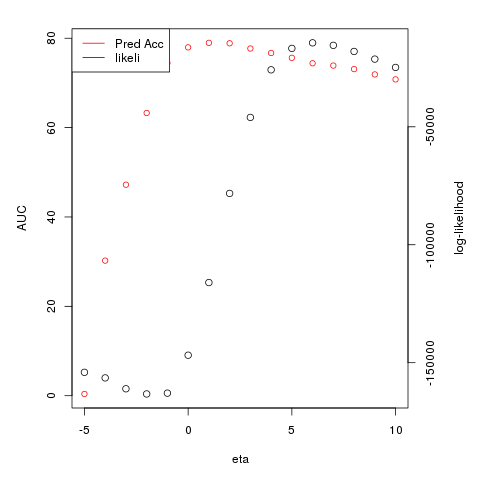
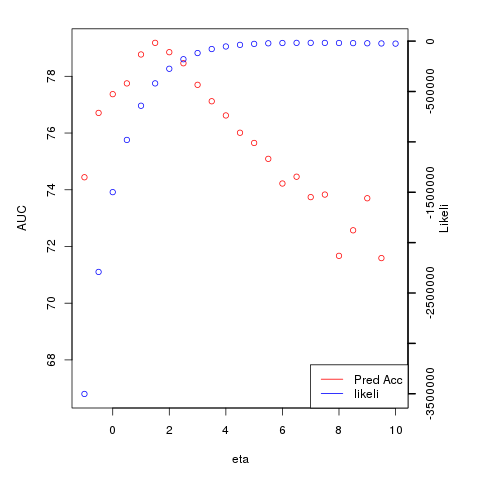
typo in AUC-log cde

diff --git a/non-estimated/README.md b/non-estimated/README.md
@@ -331,6 +331,8 @@ dev.off()
 
 
 # AUC vs. log-likelihood plot for GMPD EB model
+The parameters estimates at highest predictive accuracy does not match the one at highest pseudo log-likelihood. This is an expected behaviour since the pseudo metohd is used. Examples with original and depth =1 are given below. 
+
 
 ```r
 ### GMPD
@@ -343,6 +345,7 @@ if(! all(sapply(rownames(com), function(r) r %in% tree$tip.label))) {
 		print('Warning! Not all hosts in com exist in tree. Hosts not found in tree will be removed.')
 		com <- com[rownames(com)%in%tree$tip.label,]
 }
+
 source('library.R')
 source('gen.R')
 dd = cophenetic(rescale(tree, 'EB', 0))
@@ -350,8 +353,7 @@ aux <- sapply(rownames(dd), function(r) which(r==rownames(com)))
 com = com[aux,]
 Z= unname(com)
 Z = 1*(Z>0)
-
-grid=seq(-1, 1, 0.1)
+grid=seq(-0.04, 0.02, 0.005)
 aux =sapply(grid, function(eta){
     print(eta)
     ##  phy_dist = cophenetic(eb.phylo(tree, tree.ht, eta))
@@ -360,9 +362,10 @@ aux =sapply(grid, function(eta){
     diag(phy_dist)<-0
     pdist = phy_dist %*% Z
     P = 1-exp(-pdist)
-    roc = rocCurves(Z=Z, Z_cross= Z, P=P, plot=FALSE, bins=600, all=TRUE)
+    roc = rocCurves(Z=Z, Z_cross= Z, P=P, plot=FALSE, bins=400, all=TRUE)
     tb  = ana.table(Z, Z, roc=roc, plot=FALSE)
-    U <- rExp(pdist)
+    U <- rExp.mean(pdist)
+    U[Z==0]<-1
     likeli = sum((log(pdist))*Z)- sum(U*(pdist))
     cbind(eta=eta, tb=tb, likeli = likeli)
 })
@@ -371,25 +374,40 @@ aux = data.frame(aux)
 
 png('AUC-log-liekihood-originalTree.png')
 par(mar = c(5,5,2,5))
-with(aux, plot(eta, tb.auc, col='red', ylab = 'AUC', xlab = 'eta'))
-par(new = TRUE)
-with(aux, plot(eta, likeli, axes=FALSE, xlab=NA, ylab=NA, cex=1.2))
-axis(side = 4)
-mtext(side = 4, line = 3, 'log-likelihood')
-legend('topleft', legend = c('Pred Acc', 'likeli'), col=c('red', 'blue'), lty=c(1,1))
+plot(unlist(aux$eta), unlist(aux$tb.auc),  xlab="eta",ylab="AUC", col='red')
+par(new=T)
+plot(unlist(aux$eta), unlist(aux$likeli), axes=F, xlab="",ylab="", col='blue')
+axis(4, ylim=c(0,max(unlist(aux$likeli))),lwd=2)
+mtext(4,text="Likeli", line=2)
+legend('bottomright', legend = c('Pred Acc', 'likeli'), col=c('red', 'blue'), lty=c(1,1))
 dev.off()
+
+aux[which.max(aux$likeli),]
+aux[which.max(aux$tb.auc),]
+
+> aux[which.max(aux$likeli),]
+    eta tb.auc  tb.thresh tb.tot.inter tb.hold.out tb.pred tb.pred.all
+11 0.01   79.6 0.02005013         3966           0     NaN   0.6984367
+      likeli
+11 -16413.98
+> aux[which.max(aux$tb.auc),]
+     eta tb.auc tb.thresh tb.tot.inter tb.hold.out tb.pred tb.pred.all
+4 -0.025  84.09  0.716792         3966           0     NaN   0.7849218
+     likeli
+4 -234301.4
+> 
 
 ```
 
 ![comGMPD file](img/AUC-log-liekihood-originalTree.png)
 
 
-
 ## Depth 1
 
 ```r
-tree= rescale(tree, 'depth', 1)
-grid=seq(-5, 10, 1)
+tree=rescale(tree, 'depth',1)
+
+grid=seq(-1, 10, 0.5)
 aux =sapply(grid, function(eta){
     print(eta)
     ##  phy_dist = cophenetic(eb.phylo(tree, tree.ht, eta))
@@ -398,9 +416,10 @@ aux =sapply(grid, function(eta){
     diag(phy_dist)<-0
     pdist = phy_dist %*% Z
     P = 1-exp(-pdist)
-    roc = rocCurves(Z=Z, Z_cross= Z, P=P, plot=FALSE, bins=600, all=TRUE)
+    roc = rocCurves(Z=Z, Z_cross= Z, P=P, plot=FALSE, bins=400, all=TRUE)
     tb  = ana.table(Z, Z, roc=roc, plot=FALSE)
-    U <- rExp(pdist)
+    U <- rExp.mean(pdist)
+    U[Z==0]<-1
     likeli = sum((log(pdist))*Z)- sum(U*(pdist))
     cbind(eta=eta, tb=tb, likeli = likeli)
 })
@@ -409,13 +428,21 @@ aux = data.frame(aux)
 
 png('AUC-log-liekihood-originalTree-depth-1.png')
 par(mar = c(5,5,2,5))
-with(aux, plot(eta, tb.auc, col='red', ylab = 'AUC', xlab = 'eta'))
-par(new = TRUE)
-with(aux, plot(eta, likeli, axes=FALSE, xlab=NA, ylab=NA, cex=1.2))
-axis(side = 4)
-mtext(side = 4, line = 3, 'log-likelihood')
-legend('topleft', legend = c('Pred Acc', 'likeli'), col=c('red', 'blue'), lty=c(1,1))
+plot(unlist(aux$eta), unlist(aux$tb.auc),  xlab="eta",ylab="AUC", col='red')
+par(new=T)
+plot(unlist(aux$eta), unlist(aux$likeli), axes=F, xlab="",ylab="", col='blue')
+axis(4, ylim=c(0,max(unlist(aux$likeli))),lwd=2)
+mtext(4,text="Likeli", line=2)
+legend('bottomright', legend = c('Pred Acc', 'likeli'), col=c('red', 'blue'), lty=c(1,1))
 dev.off()
+> aux[which.max(aux$likeli),]
+   eta tb.auc  tb.thresh tb.tot.inter tb.hold.out tb.pred tb.pred.all    likeli
+17   7  73.74 0.02255639         3966           0     NaN   0.6464952 -17228.98
+> aux[which.max(aux$tb.auc),]
+  eta tb.auc tb.thresh tb.tot.inter tb.hold.out tb.pred tb.pred.all    likeli
+6 1.5  79.18 0.9448622         3966           0     NaN   0.6991931 -419610.4
+> 
+
 ```
 
 ![comGMPD file](img/AUC-log-liekihood-originalTree-depth-1.png)
